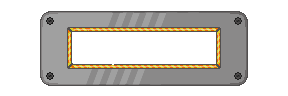
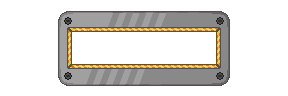
LED background.

Changed region(s): [[0.7188, 0.0938, 0.875, 0.9062], [0.125, 0.0938, 0.25, 0.9062]]

diff --git a/core/src/com/apricotjam/spacepanic/systems/helmet/HelmetWorld.java b/core/src/com/apricotjam/spacepanic/systems/helmet/HelmetWorld.java
@@ -27,7 +27,7 @@ import com.badlogic.gdx.math.Interpolation;
 
 public class HelmetWorld {
 	public static float HELMET_Z = 100f;
-	public static float LEDBG_X = (70f/80f)*BasicScreen.WORLD_WIDTH;
+	public static float LEDBG_X = (71f/80f)*BasicScreen.WORLD_WIDTH;
 	public static float LEDBG_Y = (7f/80f)*BasicScreen.WORLD_HEIGHT;
 	public static float LEDBG_W = 3f;
 	public static float LEDBG_H = 0.7f;
@@ -54,7 +54,7 @@ public class HelmetWorld {
 		Entity resourcePanel = createResourcePanel();
 		resourcePanelTransform = ComponentMappers.transform.get(resourcePanel);
 		engine.addEntity(resourcePanel);
-		//engine.addEntity(createLED_Frame(LEDBG_X, LEDBG_Y));
+		engine.addEntity(createLED_Frame(LEDBG_X, LEDBG_Y));
 		
 		//// Screws.
 		engine.addEntity(createScrew((46f/1280f)*BasicScreen.WORLD_WIDTH, (240f/720f)*BasicScreen.WORLD_HEIGHT));
@@ -207,7 +207,7 @@ public class HelmetWorld {
 		TransformComponent transComp = new TransformComponent();
 		transComp.position.x = x;
 		transComp.position.y = y;
-		transComp.position.z = HELMET_Z + 4;
+		transComp.position.z = HELMET_Z + 5;
 		e.add(transComp);
 		
 		ShaderComponent shaderComp = new ShaderComponent();
@@ -466,7 +466,7 @@ public class HelmetWorld {
 		TextureComponent texComp = new TextureComponent();
 		texComp.region = PipeGameArt.ledBG;
 		texComp.color = new Color(Color.BLACK);
-		texComp.size.x = LEDBG_W;
+		texComp.size.x = (1.01f)*LEDBG_W;
 		texComp.size.y = LEDBG_H;
 		entity.add(texComp);
 		
